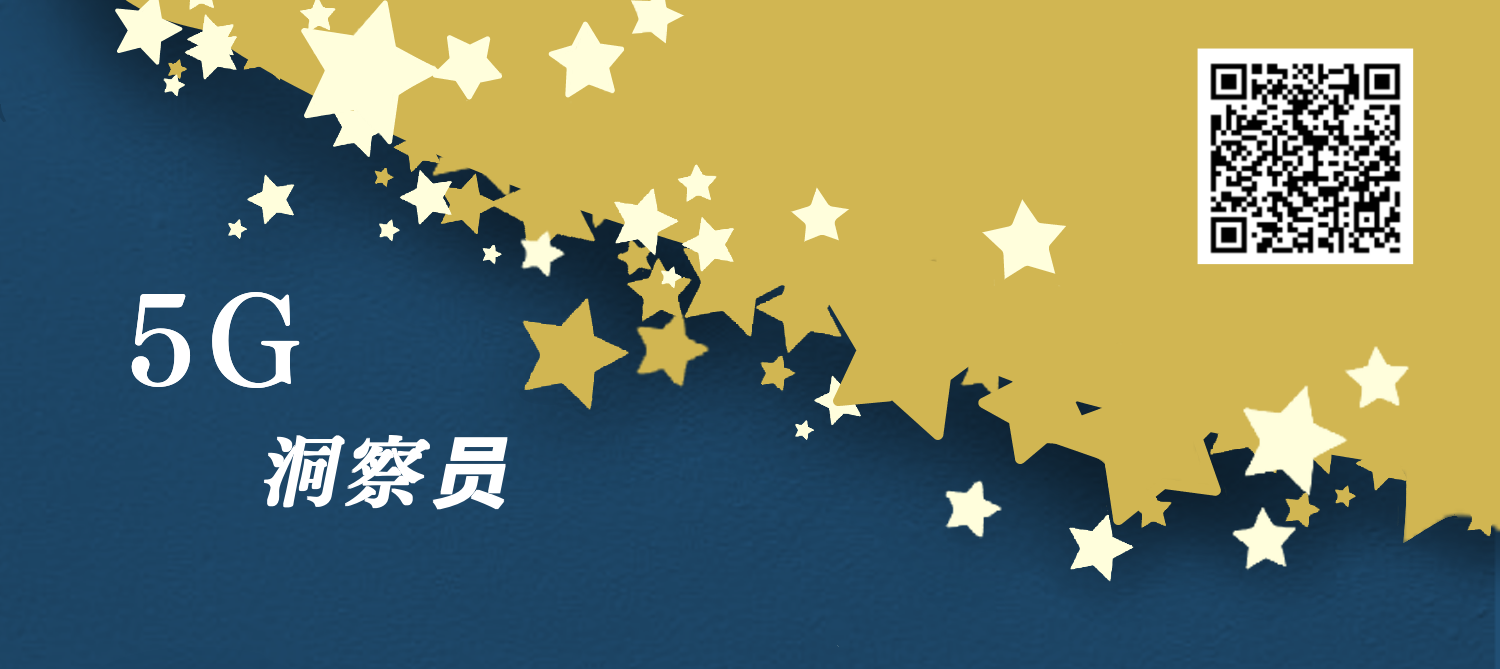
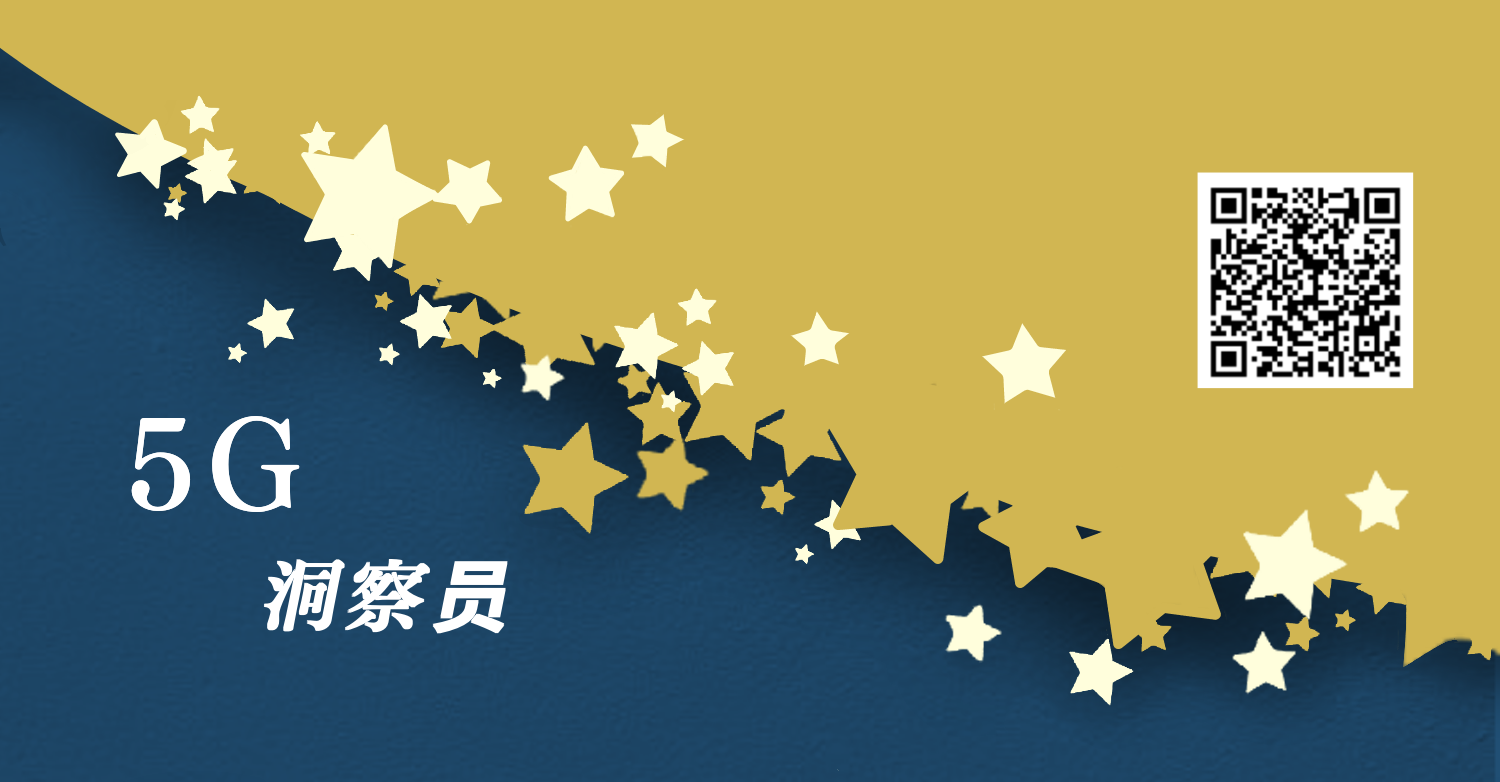
调整首部及图片

diff --git a/网页/index.html b/网页/index.html
@@ -22,23 +22,27 @@
             <el-container class="mainContainer">
                 <!-- 首部导航栏 -->
                 <el-header class="head">
-                    <el-row>
-                        <el-col :span="24">
+                    <!-- <el-row>
+                        <el-col :span="21">
                             <div class="grid-content bg-purple">
-                                <el-menu class="title" default-active="1" mode="horizontal" background-color="#545c64" text-color="#fff" active-text-color="#ffd04b">
+                                <el-menu class="title" default-active="1" mode="horizontal" background-color=rgba(0,0,0,0) text-color="#fff" active-text-color="#ffd04b">
                                     <el-menu-item index="1" class="titleText">5G知识图谱与融媒体可视化</el-menu-item>
                                 </el-menu>
                             </div>
                         </el-col>
-                        <!-- <el-col :span="3">
+                        <el-col :span="3">
                             <div class="grid-content bg-purple">
                                 <el-menu class="title" mode="horizontal" background-color="#545c64" text-color="#fff" active-text-color="#ffd04b">                 
                                     <el-menu-item index="2" @click="login">登录</el-menu-item>
                                     <el-menu-item index="3" @click="register">注册</el-menu-item>
                                 </el-menu>
                             </div>
-                        </el-col> -->
-                    </el-row>
+                        </el-col>
+                    </el-row> -->
+                    
+                    <div class="title" background-color=rgba(0,0,0,0)>
+                        <span class="titleText">5G知识图谱与融媒体可视化</span>
+                    </div>
                 </el-header>
                 
                 <!-- 内容 -->
@@ -47,9 +51,9 @@
 
                         <!-- 模块一：走马灯 -->
                         <template>
-                            <el-carousel height="520px">
+                            <el-carousel height="620px" >
                                 <el-carousel-item v-for="item in imgNumber" :key="item">
-                                    <a :href="weixin[item-1]" style="height: 520px">
+                                    <a :href="weixin[item-1]" style="height: 500px">
                                         <el-image class="animate__animated animate__fadeIn" :src="mainImg[item-1]" :fit="fits[1]"></el-image>
                                     </a>
                                 </el-carousel-item>

diff --git a/网页/js/main.js b/网页/js/main.js
@@ -3,9 +3,9 @@ var app=new Vue({
     data:{
         activeIndex:1,
         //"./img/view.jpg","./img/sea.jpg","./img/sky.jpg","./img/school.jpg"
-        mainImg:["./img/5G洞察员2.png","./img/5G5.png","./img/5G文章1.jpg","./img/5G6.jpg","./img/5G2.jpg"],
+        mainImg:["./img/5G洞察员2.png","./img/5G5.png"],
         weixin:["","https://mp.weixin.qq.com/s?__biz=MzU1NTczMDc4NA==&mid=2247483725&idx=1&sn=a540295a19e23fadc963a952d6e1e943&chksm=fbce9342ccb91a5441b82dbc966e7167dbe15f84d658688e9c9f217623fb2b62c442f9b6eb71&scene=132#wechat_redirect","https://mp.weixin.qq.com/s/bpg2Rrrd3XrVMiFtmKT5WQ",],
-        imgNumber:5,
+        imgNumber:2,
         fits: ['fill', 'contain', 'cover', 'none', 'scale-down'],
         scroll:'',
         isShow1:false,
@@ -28,15 +28,15 @@ var app=new Vue({
             this.isShow4=false;
             this.isShow5=false;
 
-            if(this.scroll>100)
+            if(this.scroll>200)
                 this.isShow1=true;
-            if(this.scroll>700)
+            if(this.scroll>1000)
                 this.isShow2=true;
-            if(this.scroll>1200)
+            if(this.scroll>1500)
                 this.isShow3=true;
-            if(this.scroll>1900)
+            if(this.scroll>2000)
                 this.isShow4=true;
-            if(this.scroll>2500)
+            if(this.scroll>2600)
                 this.isShow5=true;
         },
         login(){

diff --git a/网页/css/main.css b/网页/css/main.css
@@ -13,15 +13,11 @@ body{
 }
 .app{    
     font-size: 0;
-    height: 4210px;
+    height: 4245px;
     overflow-x: hidden;
 }
 
-.mainContainer{
-    /* height: 560px; */
-    border: 1px solid #eee;
-}
-
+/* header */
 .head{
     padding: 0px;
     /* width: 98.5%; */
@@ -29,13 +25,16 @@ body{
     position: fixed;
     z-index: 100;
 }
-.container{
-    margin-top: 60px;
-}
+
 .titleText{
-    font-size: 20px;
+    font-size: 30px;
+    float:left;
+    margin:30px;
+    color: rgb(255, 255, 255);
+    font-weight: bold;
 }
 
+/* footer */
 .footer{
     margin-top: 320px;
     background-color: rgb(59, 59, 59);
